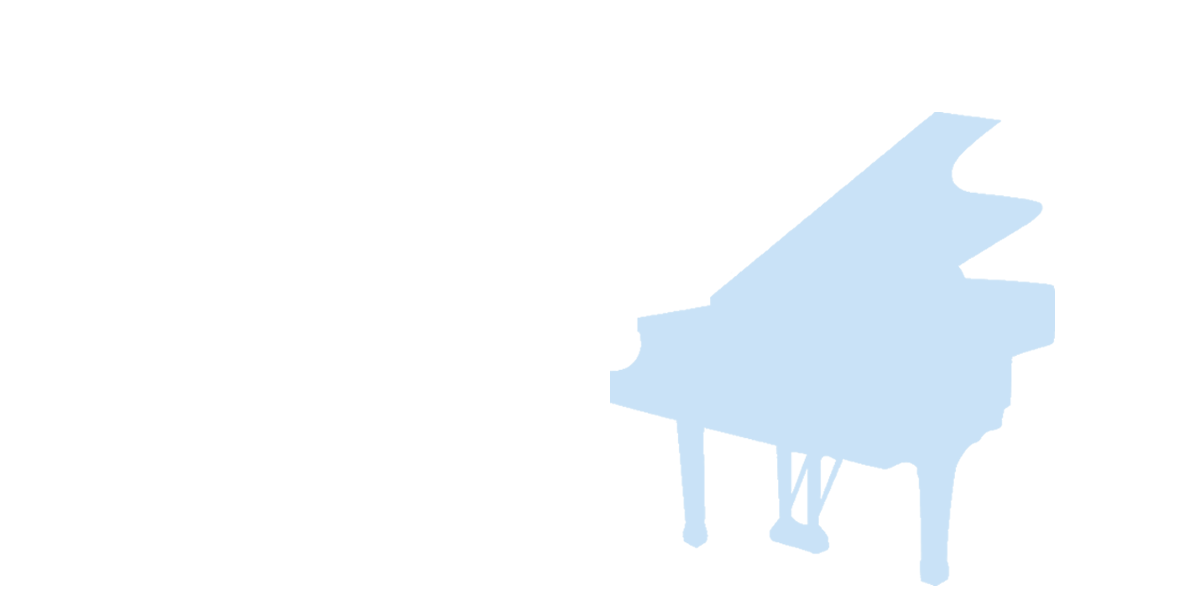
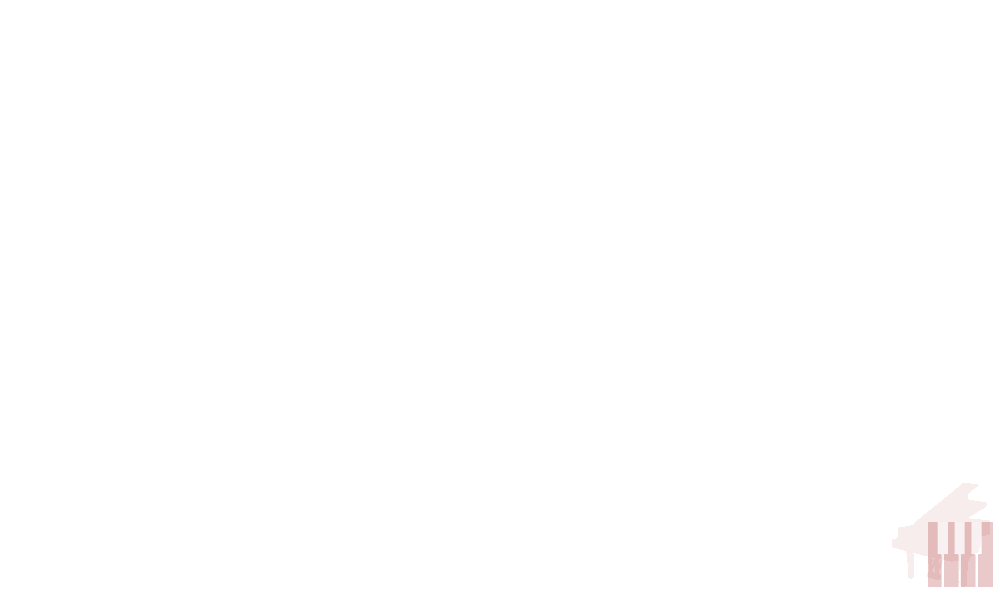
Changed fonts and added background color.
A pretty hefty revision to the whole design philosophy of the website -
Going for a sharper look with a larger contrast in color gives a
stronger impression in my mind.

Removing the giant transparent piano overlay also did much to get the
site not-looking like something from the 2008 anymore!

To do: Revise bio, make sure everything is 3 paragraphs long to keep the
page balance.

Changed region(s): [[0.496, 0.18, 0.899, 0.99], [0.93, 0.87, 1.0, 0.99]]

diff --git a/index.html b/index.html
@@ -3,36 +3,51 @@
 
 <style type="text/css">
 @import url('https://fonts.googleapis.com/css?family=Arsenal|Open+Sans');
+@import url('https://fonts.googleapis.com/css?family=Lato');
 
 </style>
 <link rel="shortcut icon" href="favicon.png" type="image/x-icon">
 <link href="CSS/stylesheet.css" rel="stylesheet" type="text/css">
-<title>Jason Fung, Pianist Bio</title><style type="text/css">
+<title>Jason Fung, Pianist Bio</title>
+<style type="text/css">
 <!--
+.style1 {
+	color: #000000;
+	font-weight: bold;
+}
+.style3 {font-size: 14px}
 body {
-	background-image: url();
+	background-color: #F3F3F3;
 }
 -->
-</style><body>
+</style>
+<body>
 <div class="wrapper">
   <div align="left" class="trueheader">
     <table width="800" height="60" border="0" align="center">
       <tr>
-        <th width="513" class="bigname" scope="col"><h1 align="left"><a href="index.html">Jason Fung </a></h1></th>
-        <th width="98" scope="col"><h2><a href="Resume.pdf"></a><a href="Resume.pdf"> Resume</a></h2></th>
+        <th width="513" class="bigname" scope="col"><h1 align="left"><a href="index.html" class="style1">Jason Fung </a></h1></th>
+        <th width="98" scope="col"><h2><a href="lessons.html"> Lessons </a></h2></th>
+        <th width="89" scope="col"><h2><a href="music.html">Music</a></h2></th>
         <th width="89" scope="col"><h2><a href="contact.html">Contact</a></h2></th>
+        <th width="89" scope="col"><h2><a href="Resume.pdf">CV</a></h2></th>
       </tr>
     </table>
   </div>
   <div align="left" class="BodyDiv" id="body">
-    <table width="800" border="0" align="center" cellpadding="20">
+    <table width="800" border="0" align="center" cellpadding="10">
       <tr>
         <th width="393" scope="col"><div align="left"><img src="Media/resize.jpg" width="273" height="409"></div></th>
         <th width="397" scope="col"><div>
-            <p align="left">Born in Richmond, BC, Jason Fung spent his early years in Hong Kong, taking piano lessons from age seven. Upon his subsequent return to Canada, he began formal studies with Dina Namer of Queen&rsquo;s University, graduating with a Bachelor&rsquo;s of Music with Distinction in 2016. He is now studying at the University of Ottawa for a Master's in Music under David Jalbert. </p>
+          <div>
+            <p>&quot;Hello! Welcome to the continuing source of amusement and headache that is to one day house my professional website. I'm pretty happy with how it's been going so far, but if you check back again in another month, odds are this site will continue to look even better. Enjoy!&quot; </p>
+          </div>
+          <p align="left">Born in Richmond, BC, Jason Fung spent his earlyyears in Hong Kong, taking piano lessons from age seven. Upon his subsequent return to Canada, he began formal studies with Dina Namer of Queen&rsquo;s University, graduating with a Bachelor&rsquo;s of Music with Distinction in 2016. He is now studying at the University of Ottawa for a Master's in Music under David Jalbert. </p>
           <p align="left">Recently, Jason has performed at the Isabel Bader Centre for Performing Arts in Kingston as winner of the Queen's University Concerto Competition in 2016. He is due to make a few community performances as part of Music and Beyond in Ottawa this coming summer. </p>
           <p align="left">&nbsp;</p>
-        </div></th>
+          <p align="left">&nbsp;</p>
+        </div>          <p align="justify" class="style3">&nbsp;</p>
+        </th>
       </tr>
     </table>
   </div>

diff --git a/music.html b/music.html
@@ -1,0 +1,43 @@
+<!DOCTYPE html>
+<html>
+
+<style type="text/css">
+@import url('https://fonts.googleapis.com/css?family=Arsenal|Open+Sans');
+@import url('https://fonts.googleapis.com/css?family=Lato');
+</style>
+<link rel="shortcut icon" href="favicon.png" type="image/x-icon">
+<link href="CSS/stylesheet.css" rel="stylesheet" type="text/css">
+<title>Jason Fung, Pianist Bio</title><style type="text/css">
+body {
+	background-color: #F3F3F3;
+}
+</style><body>
+<div class="wrapper">
+  <div align="left" class="trueheader">
+    <table width="800" height="60" border="0" align="center">
+      <tr>
+        <th width="513" class="bigname" scope="col"><h1 align="left"><a href="index.html"><strong>Jason Fung </strong></a></h1></th>
+        <th width="98" scope="col"><h2><a href="lessons.html"> Lessons </a></h2></th>
+        <th width="89" scope="col"><h2><a href="contact.html"></a><a href="music.html">Music</a></h2></th>
+        <th width="89" scope="col"><h2><a href="contact.html">Contact</a></h2></th>
+        <th width="89" scope="col"><h2><a href="Resume.pdf">CV</a></h2></th>
+      </tr>
+    </table>
+  </div>
+  <div align="left" class="BodyDiv" id="body">
+    <table width="800" border="0" align="center" cellpadding="20">
+      <tr>
+        <th width="393" scope="col"><div align="left"><iframe width="90%" height="400" scrolling="no" frameborder="no" src="https://w.soundcloud.com/player/?url=https%3A//api.soundcloud.com/users/319546905&amp;color=ff5500&amp;auto_play=false&amp;hide_related=false&amp;show_comments=true&amp;show_user=true&amp;show_reposts=false"></iframe>
+        </div></th>
+        <th width="397" scope="col"><div>
+            <p align="left">Lorem ipsum dolor sit amet, consectetur adipiscing elit, sed do eiusmod tempor incididunt ut labore et dolore magna aliqua. Ut enim ad minim veniam, quis nostrud exercitation ullamco laboris nisi ut aliquip ex ea commodo consequat. Duis aute irure dolor in reprehenderit in voluptate velit esse cillum dolore eu fugiat nulla pariatur. E</p>
+            <p align="left">Lorem ipsum dolor sit amet, consectetur adipiscing elit, sed do eiusmod tempor incididunt ut labore et dolore magna aliqua. Ut enim ad minim veniam, quis nostrud exercitation ullamco laboris nisi ut aliquip ex ea commodo consequat. Duis aute irure dolor in reprehenderit in voluptate velit esse cillum dolore eu fugiat nulla pariatur. Excepteur sint&nbsp;</p>
+            <p align="left">Lorem ipsum dolor sit amet, consectetur adipiscing elit, sed do eiusmod tempor incididunt ut labore et dolore magna aliqua. Ut enim ad minim veniam, quis nostrud exercitation ullamco laboris nisi ut aliquip ex ea commodo consequat. Duis aute irure dolor in reprehenderit in voluptate velit esse cillum dolore eu fugiat nulla pariatur. Excepteur sint&nbsp;xcepteur sint&nbsp;</p>
+            <p align="left">&nbsp;</p>
+        </div></th>
+      </tr>
+    </table>
+  </div>
+</div>
+</body>
+</html>

diff --git a/lessons.html b/lessons.html
@@ -4,16 +4,13 @@
 <style type="text/css">
 @import url('https://fonts.googleapis.com/css?family=Arsenal|Open+Sans');
 @import url('https://fonts.googleapis.com/css?family=Lato');
-
 </style>
 <link rel="shortcut icon" href="favicon.png" type="image/x-icon">
 <link href="CSS/stylesheet.css" rel="stylesheet" type="text/css">
-<title>Contact - JF</title><style type="text/css">
-<!--
+<title>Jason Fung, Pianist Bio</title><style type="text/css">
 body {
 	background-color: #F3F3F3;
 }
--->
 </style><body>
 <div class="wrapper">
   <div align="left" class="trueheader">
@@ -28,21 +25,12 @@ body {
     </table>
   </div>
   <div align="left" class="BodyDiv" id="body">
-    <table width="800" height="231" border="0" align="center" cellpadding="10">
+    <table width="800" border="0" align="center" cellpadding="10">
       <tr>
-        <th width="393" scope="col"><div align="left"><img src="Media/IMG_1336.jpg" width="273" height="409"></div></th>
+        <th width="393" scope="col"><div align="left"><img src="Media/resize.jpg" width="273" height="409"></div></th>
         <th width="397" scope="col"><div>
-            <h2 align="left"><strong>Contact</strong></h2>
-          <p align="left">&nbsp;</p>
-          <p align="left">Services offered: </p>
-          <p align="left">- Piano/Theory Lessons (All levels up to RCM Gr. 10) </p>
-          <p align="left">- Collaborative Piano services </p>
-          <p align="left">- Background Music for Events</p>
-          <p align="left">&nbsp;</p>
-          <p align="left">&nbsp;</p>
-          <p align="left">To inquire, please direct all e-mails to: </p>
-          <p align="center"><img src="Media/email.png" width="142" height="27"></p>
-          <p align="left">&nbsp;</p>
+            <p align="left">Born in Richmond, BC, Jason Fung spent his early years in Hong Kong, taking piano lessons from age seven. Upon his subsequent return to Canada, he began formal studies with Dina Namer of Queen&rsquo;s University, graduating with a Bachelor&rsquo;s of Music with Distinction in 2016. He is now studying at the University of Ottawa for a Master's in Music under David Jalbert. </p>
+          <p align="left">Recently, Jason has performed at the Isabel Bader Centre for Performing Arts in Kingston as winner of the Queen's University Concerto Competition in 2016. He is due to make a few community performances as part of Music and Beyond in Ottawa this coming summer. </p>
           <p align="left">&nbsp;</p>
         </div></th>
       </tr>

diff --git a/CSS/stylesheet.css b/CSS/stylesheet.css
@@ -1,8 +1,8 @@
 p {
-	color: #666666;
-	font-size: 13px;
+	color: #4E4E4E;
+	font-size: 15px;
 	font-style: normal;
-	font-family: 'Open Sans', sans-serif;
+	font-family: 'Lato', sans-serif;
 }
 h1 {
 
@@ -13,7 +13,7 @@ h1 {
 	font-family: 'Arsenal', sans-serif;
 }
 a{
-     color: #999999;
+     color: #000000;
 	 text-decoration: none;
 		}
 h2 {
@@ -22,6 +22,8 @@ h2 {
 	font-weight: lighter;
 	color: #999999;
 	font-family: 'Arsenal', sans-serif;
+	top: 12px;
+	position: relative;
 }
 .textdiv {
 	height: 200px;
@@ -43,9 +45,9 @@ h2 {
 }
 .wrapper {
 	height: 600px;
-	width: 1200px;
+	width: 1000px;
 	margin-right: auto;
-	margin-left: auto;
+	margin-left: 10px;
 	background-image: url(../bg.png);
 	background-repeat: no-repeat;
 }
